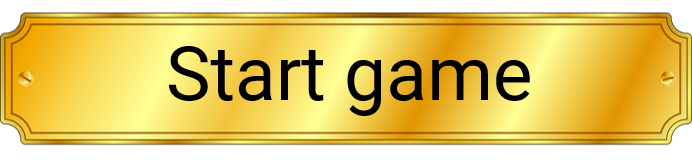
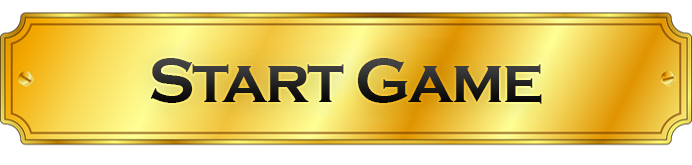
lobby button and design created

Changed region(s): [[0.2124, 0.2727, 0.789, 0.7273]]

diff --git a/src/app/start-screen/start-screen.component.scss b/src/app/start-screen/start-screen.component.scss
@@ -1,31 +1,73 @@
 .start-screen {
-    background-color: #111;
-    width: 100vw;
+    background: url(../../assets/img/board2.jpg);
+    background-position: center;
+    width: 100%;
     height: 100vh;
-    max-width: 100%;
-    bottom: 50px;
     display: flex;
     justify-content: center;
     align-items: center;
-    img {
-        width: 100%;
-        max-height: 100vh;
-        object-fit: contain;
+    .header {
+        display: flex;
+        flex-direction: column;
+        gap: 100px;
+        .head-img {
+            width: clamp(100px, 90vw, 800px);
+            object-fit: contain;
+        }
     }
 }
 
 .start-label-box {
-    position: absolute;
-    bottom: 150px;
     display: flex;
     justify-content: center;
     align-items: center;
+    flex-direction: column;
     img {
-        width: 40vw;
+        width: 200px;
         height: auto;
         &:hover {
             cursor: pointer;
             filter: brightness(1.1);
+        }
+    }
+}
+
+.joinlobby {
+    width: 200px;
+    
+}
+
+.lobby-box {
+    text-align: center;
+    background-color: #151515aa;
+    color: aliceblue;
+    border-radius: 12px;
+    
+    padding: 5px 10px 20px 10px;
+    h2 {
+        margin: unset;
+    }
+    .current-games {
+        max-height: 200px;
+        overflow-x: auto;
+            .game {
+            display: flex;
+            justify-content: space-between;
+            margin-bottom: 5px;
+            padding: 3px 10px;
+            border-radius: 5px;
+            &:hover {
+                background-color: #1f1f1f;
+                cursor: pointer;
+            }
+            .id {
+                white-space: nowrap;
+                text-overflow: ellipsis;
+                overflow: hidden;
+            }
+            .players {
+                white-space: nowrap;
+            }
         }
     }
 }

diff --git a/src/app/start-screen/start-screen.component.html b/src/app/start-screen/start-screen.component.html
@@ -1,6 +1,29 @@
 <div class="start-screen">
-    <img src="assets/img/startbox.png">
+  <div class="header">
+    <img class="head-img" src="assets/img/start_header.png" />
     <div class="start-label-box">
-        <img (click)="newGame()" src="assets/img/startlabel.png">
+      <!-- JOIN LOBBY -->
+      <div class="joinlobby">
+        <div class="lobby-box">
+          <h2>Current Games</h2>
+          <div class="current-games">
+            <!-- TEST GAME 1 -->
+            <div class="game">
+              <div class="id">ID: 13372323hiuhiu230929023932</div>
+              <div class="players">Players: 5</div>
+            </div>
+            <!-- TEST GAME 2 -->
+            <div class="game">
+              <div class="id">ID: 1337</div>
+              <div class="players">Players: 5</div>
+            </div>
+            <!-- TEST ENDE -->
+          </div>
+        </div>
+        <img (click)="joinGame()" src="assets/img/joinlabel.png" />
+      </div>
+      <!-- JOIN LOBBY ENDE -->
+      <img (click)="newGame()" src="assets/img/startlabel.png" />
     </div>
+  </div>
 </div>

diff --git a/src/app/start-screen/start-screen.component.ts b/src/app/start-screen/start-screen.component.ts
@@ -23,7 +23,10 @@ ngOnInit() {
     let game = new Game();
     addDoc((this.gameCollection), game.toJson()).then((gameInfo: any) => {
       this.router.navigateByUrl("/game/" + gameInfo.id);
-  }); 
+  });   
+  }
   
-}
+  joinGame() {
+    console.log("JOIN");
+  }
 }
